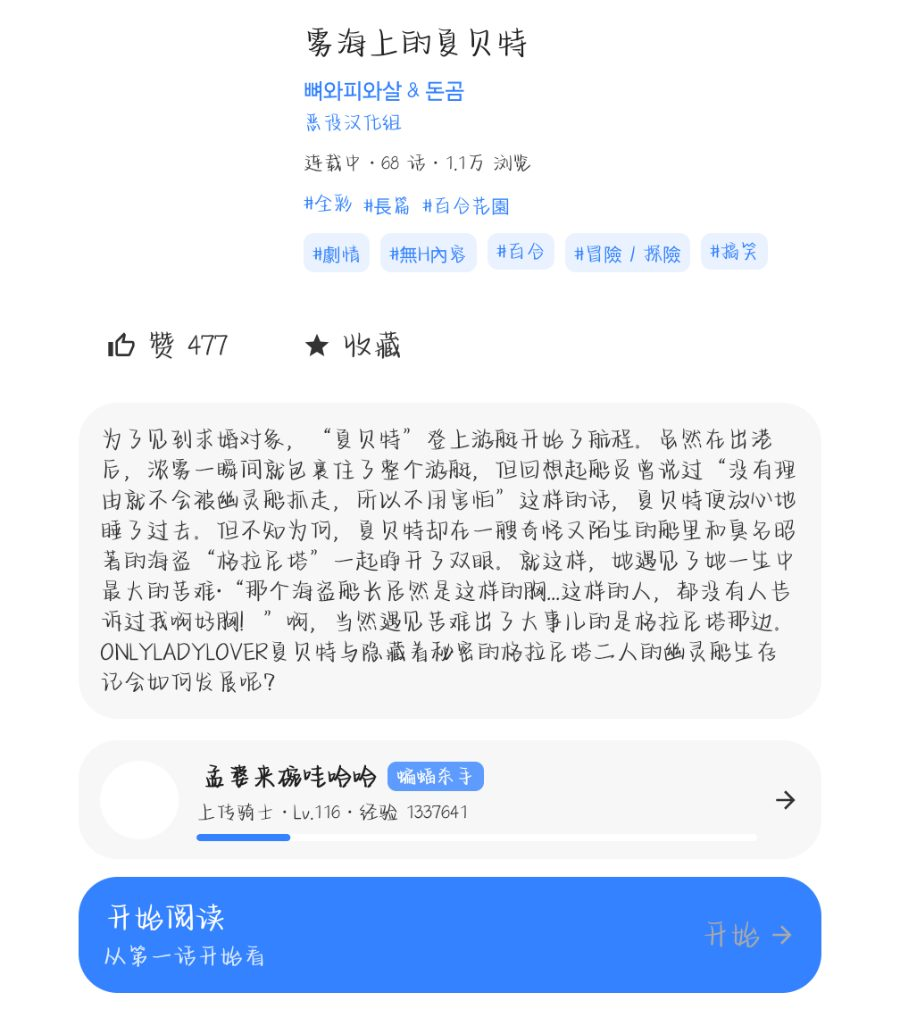
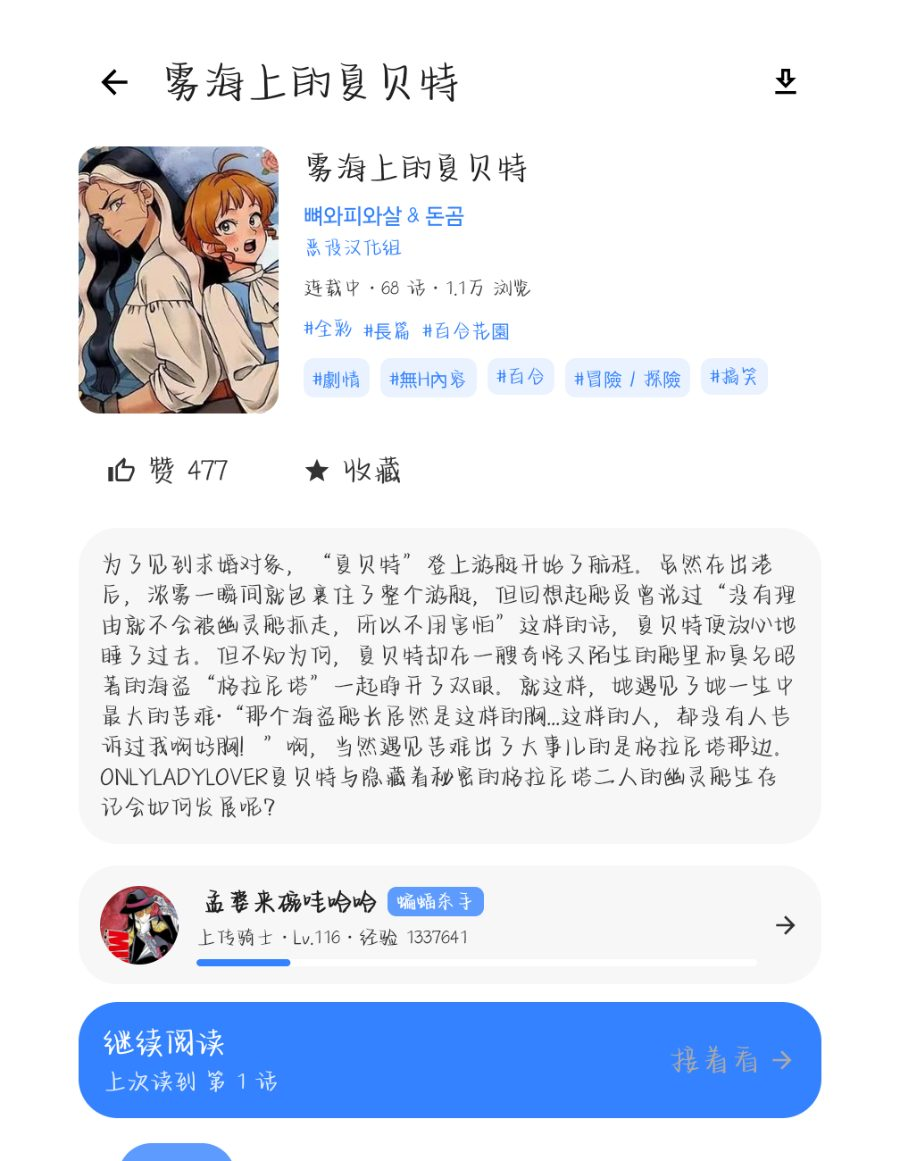
帮助页补上阅读器和下载管理两节
阅读器那张把顶栏、页码、底部进度和上一话/下一话都拍全了；
下载管理拍的是缓存进行中的那条，进度和取消按钮都在。
顺带换掉详情页和列表两张：现在的详情页有汉化组、上传者和
继续阅读状态，列表那张封面也下出来了。

diff --git a/resources/help/index.html b/resources/help/index.html
@@ -317,7 +317,7 @@ details .answer{margin:9px 0 0; padding-left:25px; color:var(--muted); font-size
 
 <figure class="shot">
 <img src="detail.jpg" alt="详情页：标题、作者、标签、赞和收藏、简介，中间一条蓝色大按钮「开始阅读」，下面是章节列表" loading="lazy">
-<figcaption>一次完整的点法：列表里点一本 → 详情页 → 点蓝色那条「开始阅读」（或者直接在章节列表里点某一话）。</figcaption>
+<figcaption>一次完整的点法：列表里点一本 → 进详情页 → 点蓝色那条「开始阅读」或者「继续阅读」，接着上次的位置。章节列表里点某一话也能直接跳过去。</figcaption>
 </figure>
 </div>
 
@@ -332,6 +332,11 @@ details .answer{margin:9px 0 0; padding-left:25px; color:var(--muted); font-size
   <li>顶栏上有上一话 / 下一话，换话会回到第 1 页。</li>
 </ul>
 <p class="tip">图超过 6 秒还没下来，会自动换一条线路重新拉；要是这一张彻底失败了，点一下那张图单独重试。</p>
+
+<figure class="shot">
+<img src="reader.jpg" alt="阅读器：顶栏左侧是返回和第 1 话，右侧是页码 1/40；底部一条进度条和上一话、下一话两个按钮" loading="lazy">
+<figcaption>阅读器点一下屏幕，工具栏就出来：顶上能返回、能换上下话、能看页码，底下那条能拖。再点一下收起来，全屏看图。</figcaption>
+</figure>
 </div>
 </section>
 
@@ -343,6 +348,11 @@ details .answer{margin:9px 0 0; padding-left:25px; color:var(--muted); font-size
 <p>详情页右上角那个下载按钮，点了就开始把整本存到手机上，可以继续去逛别的，进度在 我的 → 下载管理 里看。</p>
 <p>下完的本子离线也能看，不耗流量。下载管理里能取消、重试（已经下好的页不会重下）、删掉整本腾地方。</p>
 <p class="tip">缓存和导出目前只有 Android 版有，别的平台上不显示这两个入口。</p>
+
+<figure class="shot">
+<img src="download.jpg" alt="下载管理：一条「雾海上的夏贝特 缓存中 501/3556 页」，右边是取消按钮" loading="lazy">
+<figcaption>点完下载按钮会弹一句「开始缓存这本，可以去逛别的」，然后来 我的 → 下载管理 就能看进度、取消、重试或者删掉。</figcaption>
+</figure>
 </div>
 
 <div class="card">
